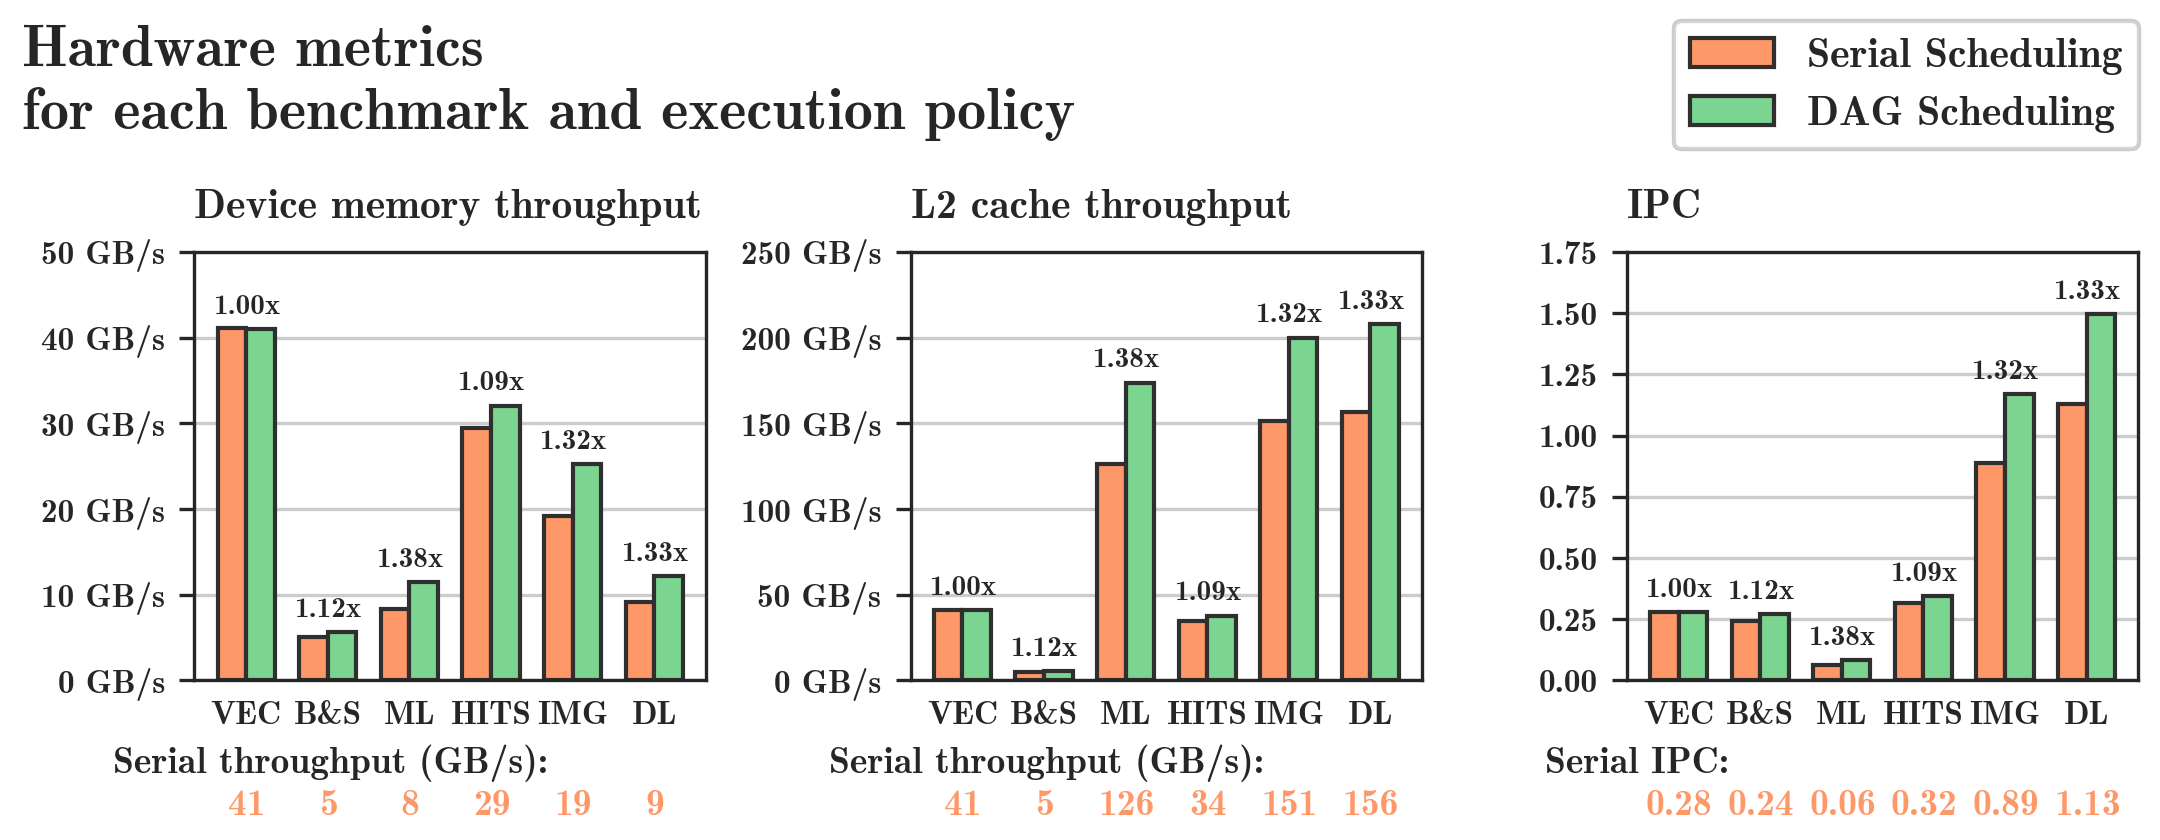
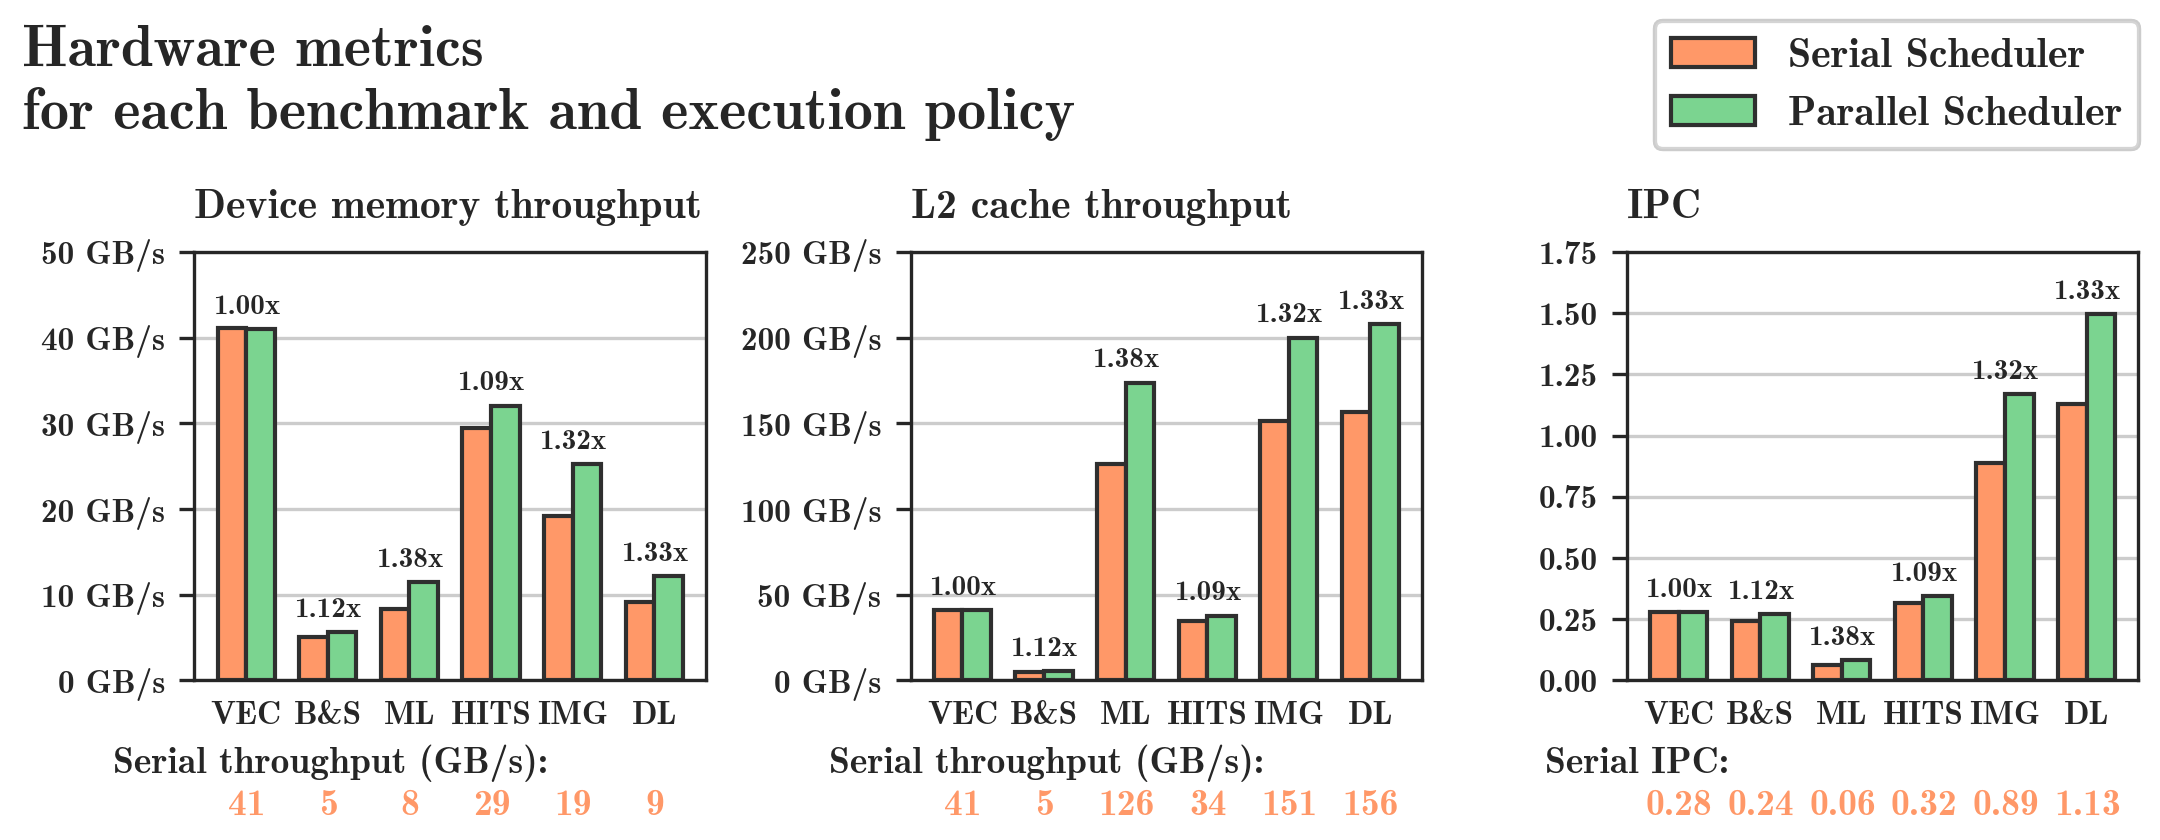
updated plots

Changed region(s): [[0.7444, 0.031, 0.9926, 0.1857]]

diff --git a/projects/resources/python/plotting/plot_theoretical_performance.py b/projects/resources/python/plotting/plot_theoretical_performance.py
@@ -266,7 +266,7 @@ def build_theoretical_time_plot_2rows(data, gridspec, x, y, baseline_labels=None
     
     data["size_str"] = data["size"].astype(str)
     
-    legend_labels = ["DAG Scheduling", "Serial Scheduling"]
+    legend_labels = ["Serial Scheduler", "Parallel Scheduler"]
     
     palette = [COLORS["peach1"], COLORS["b8"], COLORS["b2"], COLORS["b4"]][:len(data["block_size_str"].unique())]
     markers = ["o", "X", "D", "P"][:len(data["block_size_str"].unique())]

diff --git a/projects/resources/python/plotting/plot_memory_throughput.py b/projects/resources/python/plotting/plot_memory_throughput.py
@@ -38,7 +38,7 @@ BENCHMARK_NAMES = {
     "b10": "DL"
     }
 POLICIES = ["sync", "default"]
-POLICIES_DICT = {"default": "DAG Scheduling", "sync": "Serial Scheduling"}
+POLICIES_DICT = {"default": "Parallel Scheduler", "sync": "Serial Scheduler"}
 
 NVPROF_HEADER_NOMETRIC = ["start_ms", "duration_ms", "Grid X", "Grid Y", "Grid Z", "Block X", "Block Y", "Block Z",
                  "Registers Per Thread"," Static SMem", "Dynamic SMem", "Device", "Context", "Stream",
